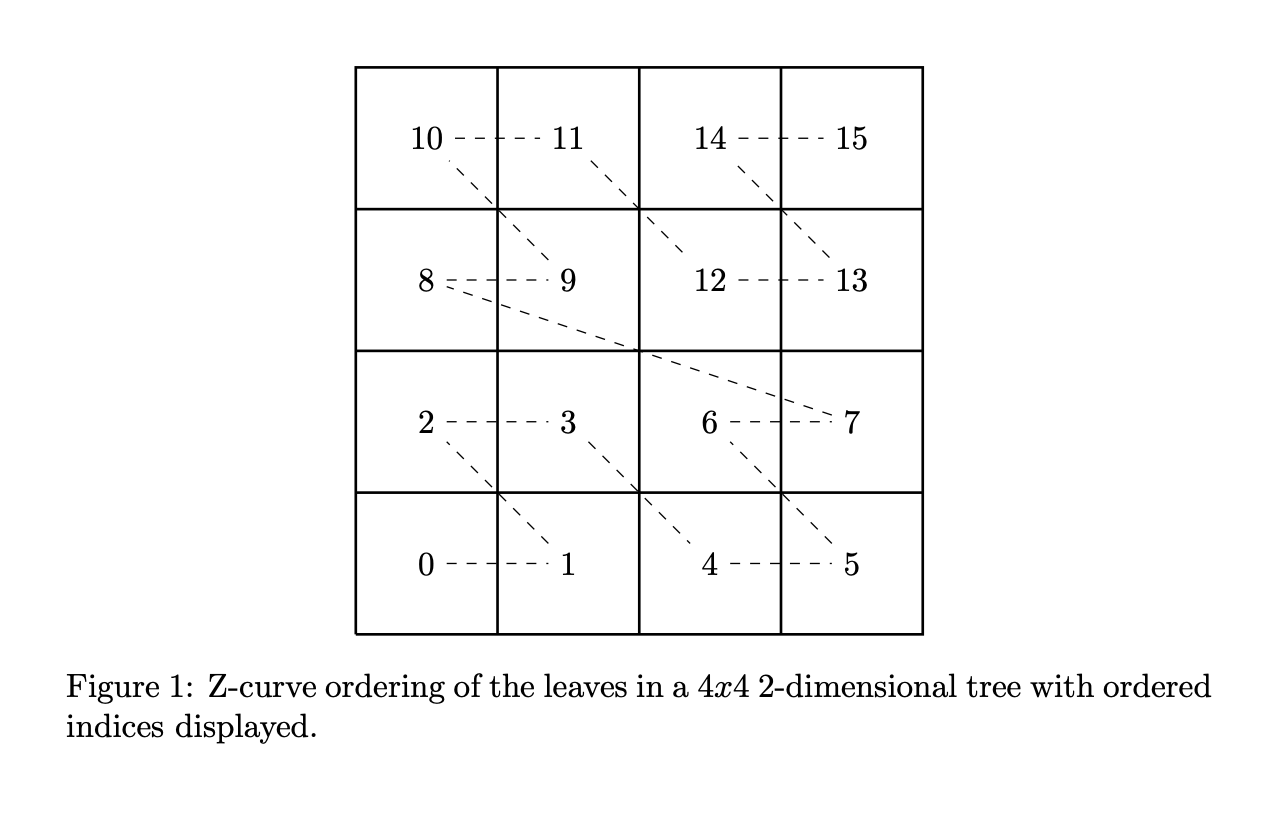
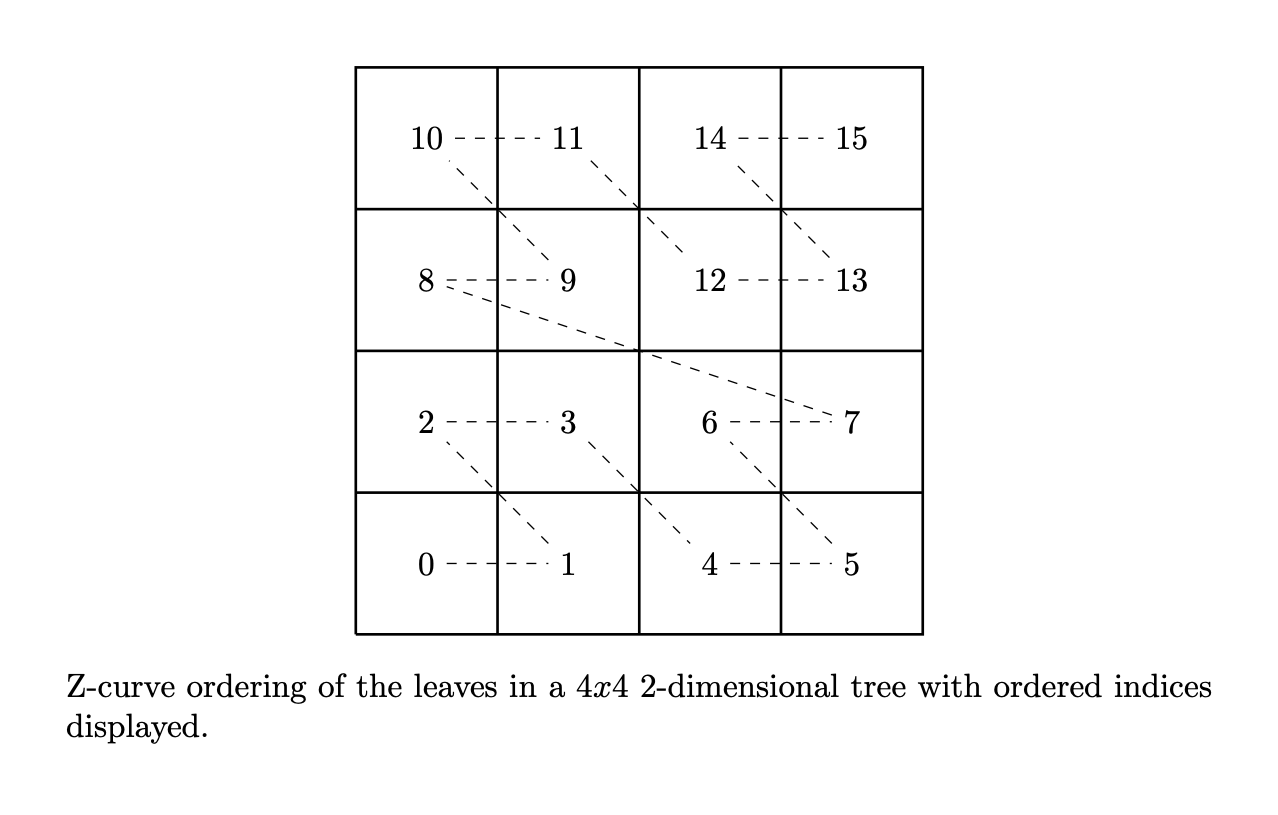
doc: more efforts

Changed region(s): [[0.0305, 0.8282, 0.946, 0.9202]]

diff --git a/doc/tex/children.tex b/doc/tex/children.tex
@@ -1,0 +1,61 @@
+\documentclass[border={20pt 20pt 20pt 20pt},preview]{standalone}
+
+\usepackage{amssymb}
+\usepackage{amsmath}
+\usepackage{subcaption}
+
+\usepackage{pgfplots}
+\usepackage{pgfplotstable}
+\pgfplotsset{compat=1.16}
+
+\usepackage{xcolor}
+
+\usepackage{tikz}
+\usetikzlibrary{patterns}
+\usetikzlibrary{positioning}
+\usetikzlibrary{decorations.pathmorphing}
+
+\begin{document}
+
+\begin{figure}[ht!]
+\centering
+\begin{tikzpicture}
+
+\coordinate(A) at (0, 0);
+\coordinate(B) at (4, 0);
+\coordinate(C) at (4, 4);
+\coordinate(D) at (0, 4);
+
+\coordinate(E) at (6, 0);
+\coordinate(F) at (10, 0);
+\coordinate(G) at (10, 4);
+\coordinate(H) at (6, 4);
+
+\coordinate(I) at (8, 0);
+\coordinate(J) at (8, 4);
+\coordinate(K) at (6, 2);
+\coordinate(L) at (10, 2);
+
+\draw [black, thick] (A) -- (B) -- (C) -- (D) -- (A);
+\node[] (a) at (2,2) {\Large $\Omega^e$};
+
+\coordinate(M) at (4.5, 2);
+\coordinate(N) at (5.5, 2);
+
+\draw [blue, thick, <->] (M) -- (N);
+
+\draw [black, thick] (E) -- (F) -- (G) -- (H) -- (E);
+\draw [black, thick] (I) -- (J);
+\draw [black, thick] (K) -- (L);
+
+\node[] (a) at (7,1) {\Large $\Omega^{e,1}$};
+\node[] (a) at (7,3) {\Large $\Omega^{e,2}$};
+\node[] (a) at (9,1) {\Large $\Omega^{e,3}$};
+\node[] (a) at (9,3) {\Large $\Omega^{e,4}$};
+
+\end{tikzpicture}
+\caption*{Example of refinement (right arrow) and
+coarsening (left arrow) in two dimensions.}
+\end{figure}
+
+\end{document}

diff --git a/doc/tex/tree_zcurve.tex b/doc/tex/tree_zcurve.tex
@@ -43,7 +43,7 @@
 \draw [black, dashed] (h) -- (i) -- (j) -- (k) -- (l);
 \draw [black, dashed] (l) -- (m) -- (n) -- (o) -- (p);
 \end{tikzpicture}
-\caption{Z-curve ordering of the leaves in a $4x4$ $2$-dimensional
+\caption*{Z-curve ordering of the leaves in a $4x4$ $2$-dimensional
 tree with ordered indices displayed.}
 \label{fig:zcurve}
 \end{figure}

diff --git a/doc/theory/transfer.rst b/doc/theory/transfer.rst
@@ -1,0 +1,74 @@
+=================
+Solution Transfer
+=================
+
+------------
+Introduction
+------------
+
+When a single block is *refined*, :math:`2^d` child blocks are created and
+it is necessary to *prolong* solution information from the cells in the
+original block to the cells in the newly created finer blocks.
+Conversely, when :math:`2^d` blocks that share a single parent are *coarsened*,
+it is necessary to *restrict* the solution from the cells in the original
+blocks to the remaining coarse block. The figure below illustrates the concept
+of a sinlge cell being split into :math:`n_s = 2^d` child cells, denoted
+by :math:`\Omega^{e,s}`.
+
+.. image:: ../tex/children.png
+  :align: center
+  :alt: Illustration of refining/coarsening a single cell
+
+------------
+Prolongation
+------------
+
+To prolong the solution state from a coarse cell :math:`\Omega^e` to a fine
+cell :math:`\Omega^{e,s}`, we perform an :math:`L^2` projection of the
+original solution :math:`\boldsymbol{U}^e` onto the modal basis on the
+finer cell, so that
+
+.. math::
+
+  \left( u^{e,s}(\boldsymbol{x}, t), \phi_b(\boldsymbol{x}) \right)_{\Omega^{e,s}} =
+  \left( u^e(\boldsymbol{x}, t), \phi_b(\boldsymbol{x}) \right)_{\Omega^{e,s}},
+  \quad b=1,2,\dots,n_b.
+
+.. math::
+
+  \int_{\Omega^R} u^{e,s}(\boldsymbol{\xi}, t) \phi_b(\boldsymbol{\xi}) \,
+  \mathcal{J}^e \, \text{d} \Omega &=
+  \int_{\Omega^R} u^e(\hat{\boldsymbol{\xi}}^s, t) \phi_b(\boldsymbol{\xi}) \,
+  \mathcal{J}^e \, \text{d} \Omega, \\
+  \sum_{i=1}^{n_b} c^{e,s}_i(t)
+  \int_{\Omega^R} \phi_i(\boldsymbol{\xi}) \phi_b(\boldsymbol{\xi}) \, \text{d} \Omega &=
+  \sum_{a=1}^{n_b} c^e_a(t)
+  \int_{\Omega^R} \phi_a(\hat{\boldsymbol{\xi}}^s) \phi_b(\boldsymbol{\xi}) \, \text{d} \Omega, \\
+  c^{e,s}_b(t) &=
+  \frac{1}{M_b} \sum_{a=1}^{n_b} c^e_a(t)
+  \int_{\Omega^R} \phi_a(\hat{\boldsymbol{\xi}}^s) \phi_b(\boldsymbol{\xi}) \, \text{d} \Omega, \\
+  c^{e,s}_b(t) &=
+  \frac{1}{M_b} [\boldsymbol{\mathcal{P}}^s]^T \boldsymbol{c}^e(t).
+
+In the first equality, the original solution :math:`u^e` is evaluated at
+*shifted* reference points :math:`\hat{\boldsymbol{\xi}}^s` so that
+the solution :math:`u^e(\hat{\boldsymbol{\xi}}, t)` in the original cell
+is evaluated at the same reference locations as the prolonged solution
+:math:`u^{e,s}(\boldsymbol{\xi}, t)` in the current subcell. In the
+second equality, the Jacobian determinants have cancelled as they are
+constant over axis aligned cells and the definition of the solution
+representation has been used on both sides of the equality. The
+orthogonality of the basis functions has been used in the third equality.
+
+.. note::
+
+  The prolongation operation is *exact* in that it exactly preserves the
+  original solution distribution within each refined cell
+
+.. note::
+
+  Because refinement occurs at the *block* level, rather than at individual
+  cells, it is also necessary to map parent cells in the original block
+  to child cells in each refined block. To facilitate the ease of this
+  mapping, we require that the number of cells along each axis (in a block)
+  is divisible by 2 for meshes that make use of AMR.

diff --git a/doc/theory/trees.rst b/doc/theory/trees.rst
@@ -95,7 +95,7 @@ Z-Curve Ordering
 
 For the purpose of information locality in a distributed memory context,
 it is useful to order the leaves using a space filling curve. That is to
-say, we would each MPI rank to contain data associated with leaves
+say, we would like each MPI rank to contain data associated with leaves
 that are relatively close to one another in a spatial sense. This is
 known to reduce the wall-time associated with the transfer of data
 from adjacent leaves in an MPI context. Presently, we consider a

diff --git a/doc/theory/theory.rst b/doc/theory/theory.rst
@@ -14,3 +14,4 @@ in DGTile.
 
     trees
     dg
+    transfer
